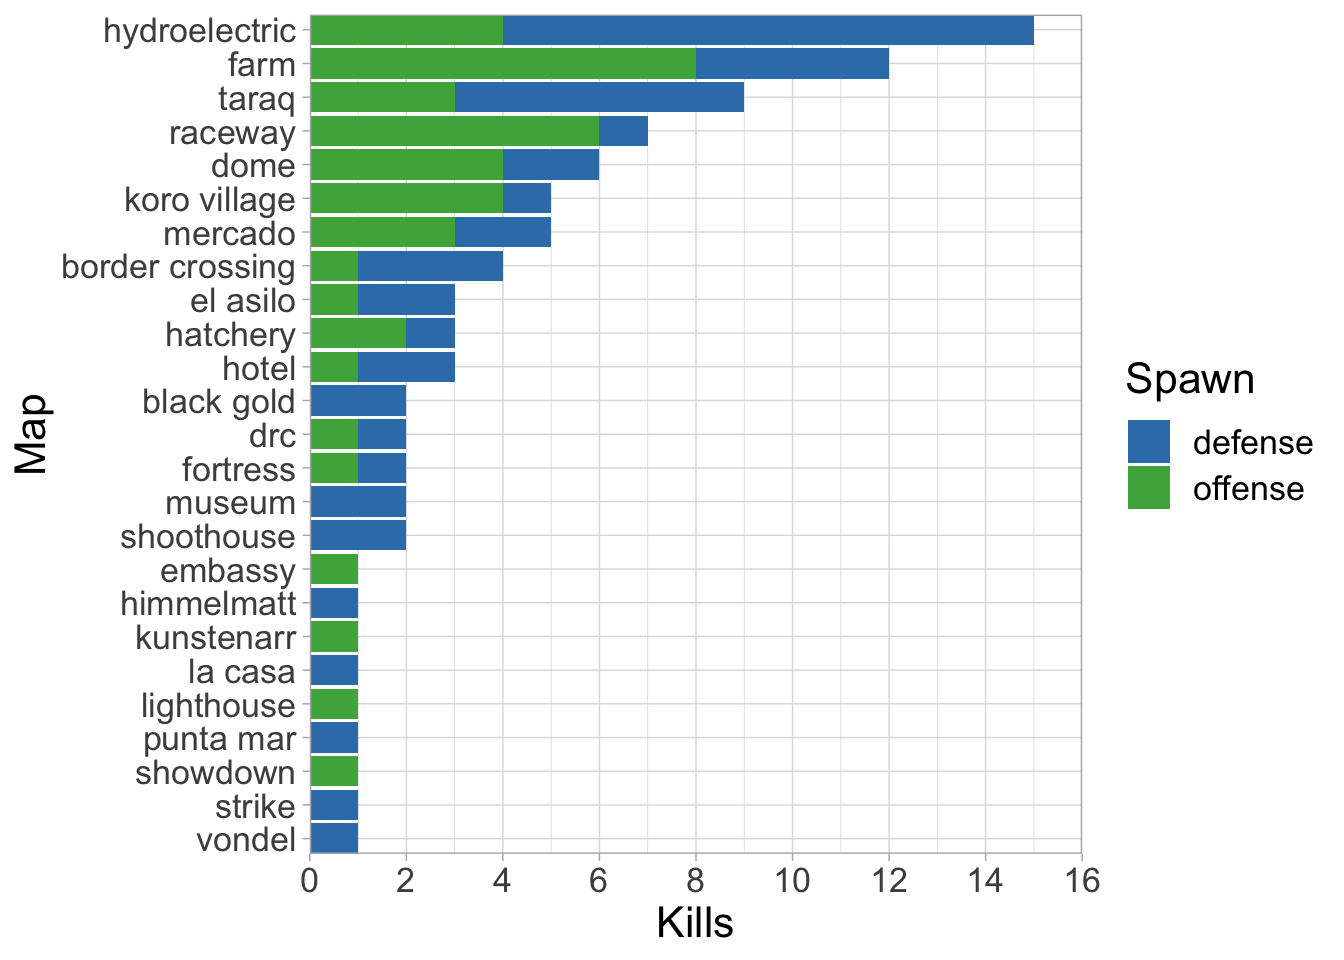
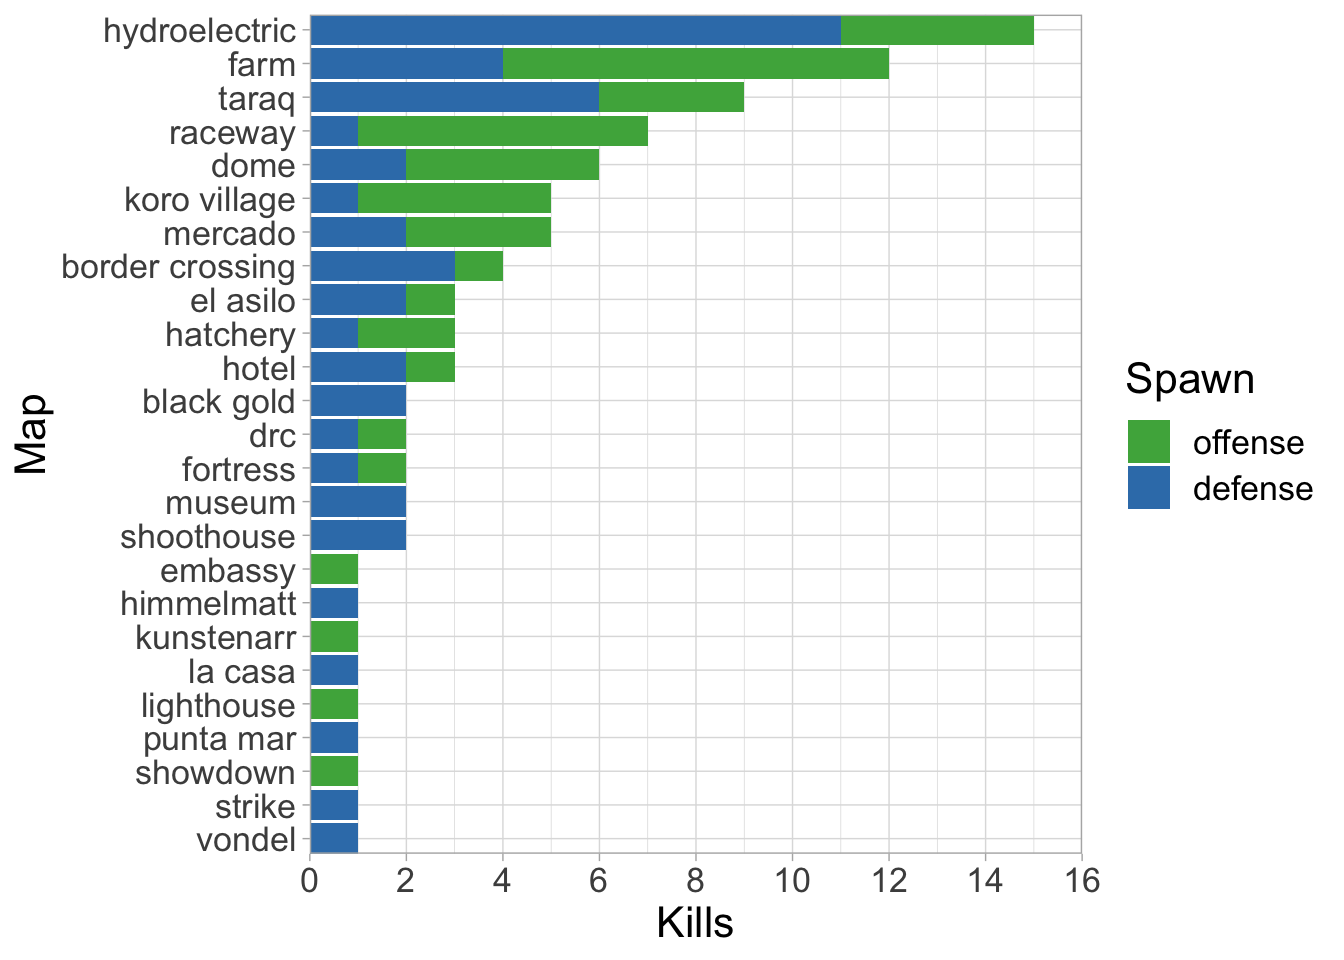
upd - finalized plots, readme.

Changed region(s): [[0.2188, 0.0, 0.7812, 0.4062], [0.8125, 0.4375, 0.9688, 0.5312], [0.2188, 0.4375, 0.3125, 0.5]]

diff --git a/docs/MWII_analysis.html b/docs/MWII_analysis.html
@@ -62,66 +62,120 @@ ul.task-list li input[type="checkbox"] {
 
 <section id="background" class="level2">
 <h2 class="anchored" data-anchor-id="background">Background</h2>
-<p>During Modern Warfare II, I spent the majority of my time in Search and Destroy attempting to hit cross-map throwing knives. After I hit Embassy, the last 6v6 map I needed, I moved to Modern Warfare III and finished with a total of 91 cross-maps after omitting Shipment. Here is the data and some intriguing analysis for those of you who are interested. I’ve also made a public github repository for this dataset if anyone wants to use it in the future.</p>
+<p>During Modern Warfare II, I spent the majority of my time in Search and Destroy attempting to hit cross-map throwing knives. After I hit Embassy, the last 6v6 map I needed, I had amassed 91 cross-maps in total. After omitting Shipment, I tried to pull out a few interesting details to share with the community. This dataset will also be available on GitHub if anyone wants to use it in the future.</p>
 </section>
 <section id="analysis" class="level2">
 <h2 class="anchored" data-anchor-id="analysis">Analysis</h2>
 <p>I had a general sense of which maps I hit the most and which ones proved difficult as I progressed, but getting a bird’s eye view of the data illuminates several interesting details (Figure 1). For instance, more than half the maps (n = 14) were only hit once or twice. I’ve attributed this to several factors:</p>
 <ol type="1">
-<li><p>map difficulty — both spawns on several maps (e.g., Strike, Museum) are incredibly challenging and require creativity and lots of luck.</p></li>
-<li><p>completionist — after going dry for many months on some of these maps, I just took a single kill and moved on.</p></li>
-<li><p>seasonal releases — some maps (e.g., La Casa) are released much later and naturally get less reps than the base maps. This can also synergise with #1, #2, or both (e.g., Himmelmatt).</p></li>
+<li><p>Map difficulty — both spawns on several maps (e.g., Strike, Museum) are incredibly challenging and require creativity and lots of luck.</p></li>
+<li><p>Completionist — after going dry for many months on some of these maps, I just took a single kill and moved on.</p></li>
+<li><p>Seasonal releases — some maps (e.g., La Casa) are released much later and naturally get less reps than the base maps. This can also compound with #1, #2, or both (e.g., Himmelmatt).</p></li>
 </ol>
 <div class="cell" data-layout-align="center">
 
 </div>
-<div class="cell fig-cap-location-bottom" data-layout-align="center">
+<div class="cell caption-bottom" data-layout-align="center">
 <div class="cell-output-display">
 <div class="quarto-figure quarto-figure-center">
 <figure class="figure">
 <p><img src="MWII_analysis_files/figure-html/unnamed-chunk-2-1.png" class="img-fluid figure-img" width="672"></p>
-<p></p><figcaption class="figure-caption">Figure 1. Cross-map throwing knife kills in MWII Search and Destroy from Nov.&nbsp;2022 to Nov.&nbsp;2023.</figcaption><p></p>
+<p></p><figcaption class="figure-caption">Figure 1. Cross-map throwing knife kills in MWII Search and Destroy.</figcaption><p></p>
 </figure>
 </div>
 </div>
 </div>
-<p>Another interesting observation was that 54% of the kills (i.e., 49/91) came from the top five maps - Hydroelectric, Farm, Taraq, Raceway, and Dome. Thinking back to the aforementioned factors, it is clear that Farm and Dome are relatively low difficulty maps, since throwing knives are viable from both spawns, distances are small, and strong arm can be used to shoot gaps at low angles giving enemies less time to react. The other three maps are more intriguing, largely because there may be a tendency to favour one spawn over the other (Figure 1). Let’s begin examining why it might be easier to hit cross-maps from the defensive side of Taraq and Hydroelectric, and the offensive side of Raceway.</p>
+<p>Another interesting observation was that five maps — Hydroelectric, Farm, Taraq, Raceway, and Dome — were responsible for 54% of my kills. Thinking back to the aforementioned factors, it is clear that Farm and Dome have relatively low degrees of difficulty as: 1) throwing knives are viable from both spawns; 2) distances are short; and 3) strong arm can be used to shoot gaps at low angles giving enemies less time to react. Conversely, the other three maps are more intriguing, largely because there may be a tendency to favour one spawn over the other (Figure 1). Let’s begin examining why it might be easier to hit cross-maps from the offense side of Raceway, and the defensive side of Taraq and Hydroelectric.</p>
 </section>
 <section id="case-studies" class="level2">
 <h2 class="anchored" data-anchor-id="case-studies">Case studies</h2>
 <section id="crown-raceway-the-most-obvious-example" class="level5">
 <h5 class="anchored" data-anchor-id="crown-raceway-the-most-obvious-example">1. Crown Raceway — the most obvious example</h5>
-<p>Crown Raceway has a relatively large discrepancy in spawn safety, with offense holding the distinct advantage. The tall, central building naturally protects players until they want to run up the stairs to mid-street — the most logical area for defensive spawn cross-maps (Figure X). I only hit one here, which I’d consider unlucky since it’s a relatively high traffic area; however, the small kill zone, having to clear the concrete vegetation barrier, and underutilisation of the upper platform (which knives tend to bounce up on) by players still make this challenging. Note that hitting AFK players directly at spawn is also possible, but I’d argue it requires more luck.</p>
-<p>On first glance, the offensive spawn looks quite safe; however, upon further inspection, I believe it is actually one of the more dangerous spawns in the game. The bomb entices players to run middle, which has a long runway and no barriers. This combined with a relatively consistent sprint-throw — that almost always clears the back end of the building — is a recipe for disaster. A wide kill zone, which reduces the need for precision and timing, bounce opportunities going through spawn, and players cross-cutting the knife path leaves everyone exposed, even those who are AFK.</p>
-<p>Winner: Offense.</p>
+<p>Crown Raceway has a relatively large discrepancy in spawn safety, with defense holding the distinct advantage. The left side of the tall, central building naturally protects players until they want to run up the stairs to mid-street — the most logical area for hitting cross-maps from offense (Figure 2). I hit several here which I’d consider fairly lucky. It is a relatively high traffic area; however, the variability in the throw combined with having to clear the concrete barrier, hitting a narrow kill zone, and underutilisation of the upper platform (which knives tend to bounce up on) make this more challenging than it looks. Note that hitting AFK players directly at spawn is also possible, but I’d argue it requires more luck.</p>
+<div class="quarto-figure quarto-figure-center">
+<figure class="figure">
+<p><img src="images/raceway1-01.png" class="img-fluid figure-img"></p>
+<p></p><figcaption class="figure-caption">Figure 2. An overview of the defense spawn and the route players must take to be vulnerable to this particular cross-map.</figcaption><p></p>
+</figure>
+</div>
+<div class="quarto-figure quarto-figure-center">
+<figure class="figure">
+<p><img src="images/raceway2-02.png" class="img-fluid figure-img"></p>
+<p></p><figcaption class="figure-caption">Figure 3. The kill zone and knife path for the cross-map from the offense spawn.</figcaption><p></p>
+</figure>
+</div>
+<p>Let’s take a look at the other side. At first glance, the offense spawn looks quite safe; however, upon further inspection, I believe it is actually one of the more dangerous spawns in the game. The bomb entices players to run middle, which has a long runway and no barriers (Figure 4). This combined with a relatively consistent sprint-throw from the other side — that almost always clears the back end of the central building — is a recipe for disaster. A wide kill zone, which reduces the need for precision and timing, bouncing, and players running near-parallel to the knife path leaves everyone exposed, even those who are AFK.</p>
+<p><strong>Conclusion:</strong> my data suggests that the offense cross-map is easier; however, I’d argue that defense has the better setup.</p>
+<div class="quarto-figure quarto-figure-center">
+<figure class="figure">
+<p><img src="images/raceway3-01.png" class="img-fluid figure-img"></p>
+<p></p><figcaption class="figure-caption">Figure 4. An overview of the cross-map thrown from the defense spawn.</figcaption><p></p>
+</figure>
+</div>
 </section>
 <section id="taraq-an-interesting-case-of-design" class="level5">
 <h5 class="anchored" data-anchor-id="taraq-an-interesting-case-of-design">2. Taraq — an interesting case of design</h5>
-<p>Taraq being in my top five maps was somewhat surprising to me given it’s large size and asymmetric layout. Let’s start with the offensive throws because Infinity Ward does us no favours here. The large blue building in front of the defensive spawn forces players left towards B, which is more open, or right through a small corridor towards A. Unfortunately, the strategic position of the large central tower makes hitting the B route a near-impossible task. That leaves us with trying to perfect the A throw — a sprint-jump toss that has to a) get over the balcony; and b) miss the pillar on a near-perpendicular angle to the enemy which makes the timing simply exquisite. Given these factors, I’d chalk the three I hit from this spawn mostly up to luck and are easily some of my most satisfying kills.</p>
-<p>Although the defensive throw is pretty blind (due to big blue), the offensive spawn is more forgiving and does us a subtle, but key favour. The characters tend to spawn in looking more left (towards A), which perhaps leads to more A rushes (it may also have no effect). Regardless, the offensive path to A is really the only viable option — lucky us. It is pretty open and the perpendicular runway offers lots of lead time if you can avoid the retaining wall and the corner building on the right. AFK players are also in play and a consistent point and release throw with ordnance gloves makes this easier than expected.</p>
-<p>Winner: Defense.</p>
+<p>Taraq being in my top five maps was somewhat surprising given its large size and asymmetric layout. Let’s start with the throws from offense because Infinity Ward did not give us any favours here. The large blue building in front of the defensive spawn forces players left towards B, which is more open, or right through a small corridor towards A. Unfortunately, the strategic position of the large central tower makes hitting the B route a near-impossible task (one I never attempted). That leaves trying to perfect the A throw — a sprint-jump toss into a vague grey sky that has to a) get over the balcony; or b) be left of the balcony and miss the pillar, which makes the aim and timing absolutely crucial (Figure 6). Given these factors, I’d chalk the three I hit from this spawn mostly up to luck. They are easily some of my favourite kills since so much has to go right (where is theatre mode when you need it).</p>
+<div class="quarto-figure quarto-figure-center">
+<figure class="figure">
+<p><img src="images/taraq1.png" class="img-fluid figure-img"></p>
+<p></p><figcaption class="figure-caption">Figure 5. The central tower and blue platform and adjoined retaining wall protect players exiting spawn towards B.</figcaption><p></p>
+</figure>
+</div>
+<div class="quarto-figure quarto-figure-center">
+<figure class="figure">
+<p><img src="images/taraq2-01.png" class="img-fluid figure-img"></p>
+<p></p><figcaption class="figure-caption">Figure 6. The A corridor and the window a throwing knife needs to go through to be successful. Note that aiming towards the exit (i.e., further left) is also viable.</figcaption><p></p>
+</figure>
+</div>
+<p>Although the defensive throw is pretty blind (due to blue), the offense spawn is more forgiving and does us a subtle, but key favour. The characters tend to spawn in looking more left (towards A), which perhaps leads to more A rushes; it may also have no effect on player decision-making (Figure 7). Regardless, the offense path to A is really the only viable cross-map option (as the B rush is well guarded) — lucky us. Left of spawn is pretty open and the perpendicular runway offers lots of lead time if you can avoid the retaining wall and the corner building on the right (Figure 8). AFK players are also in play and a consistent point and release throw with strong arm makes this easier than expected.</p>
+<p><strong>Conclusion:</strong> I’ll take my chances with the defensive throw over a rare — albeit sublime — offense kill everytime.</p>
+<div class="quarto-figure quarto-figure-center">
+<figure class="figure">
+<p><img src="images/taraq3-01.png" class="img-fluid figure-img"></p>
+<p></p><figcaption class="figure-caption">Figure 7. View of a typical player spawn and the large kill zone on offense.</figcaption><p></p>
+</figure>
+</div>
+<div class="quarto-figure quarto-figure-center">
+<figure class="figure">
+<p><img src="images/taraq3.png" class="img-fluid figure-img"></p>
+<p></p><figcaption class="figure-caption">Figure 8. Opposite viewpoint of the offense spawn that better illustrates the wide throwing angle. How little cover there is available for players if they choose to run towards A bomb is also evident.</figcaption><p></p>
+</figure>
+</div>
 </section>
 <section id="zarqwa-hydroelectric-the-most-dangerous-spawn-in-the-game" class="level5">
 <h5 class="anchored" data-anchor-id="zarqwa-hydroelectric-the-most-dangerous-spawn-in-the-game">3. Zarqwa Hydroelectric — the most dangerous spawn in the game?</h5>
-<p>Zarqwa Hydroelectric is simply a cross-mapping paradise; however, there are some key factors as to why kills on offense (n = 4) seem to be harder to come by than its counterpart (n = 11). Looking at the offensive knife kill zone, the long runway to mid is relatively good from a cross-map perspective, but the players are protected by the generator building and actually sit at a slightly lower elevation due to the carved out path on the right. Knives have to cross the map, clear the building, and get down fast, thus it’s likely that many players are safe by that time (if they tac-sprint at the start of the round). Furthermore, the electric power poles situated on the left side of generator roof and the rock and single power pole in the middle of the lane act as natural barriers which likely saved many lives over time!</p>
-<p>Conversely, tossing knives from the defense spawn is the best kind of dream. Point and release ordnance gloves throw, check. Long, straight runway with no barriers and bounce opportunities, check. Perfect bomb placement that entices players to funnel down the middle lane, check. Nothing more really needs to be said as I started to expect to hit one from this side every game. It is the poster child of what to look for when cross-mapping and, although this is a small sample size, it might be the most dangerous Search and Destroy spawn in the game.</p>
-<p>Winner: Defense.</p>
+<p>Zarqwa Hydroelectric is simply a cross-mapping paradise; however, there are some key factors as to why kills on offense seem to be harder to come by than its counterpart. Looking at the offense knife kill zone, the long runway to mid is relatively good from a cross-map perspective, but the players are protected by the generator building and its electric towers and are actually at a slightly lower elevation due to the carved out path on the right. Moreover, situated right in front of this path are various liquid containers and a power pole, which may play a sneaky role in reducing success rate. I figure a few lives were saved due to their presence (i.e., deflections). Ultimately, knives have to cross the map, clear the building, and get down fast which allows many players to be safe by that time (if they tac-sprint at the start of the round).</p>
+<div class="quarto-figure quarto-figure-center">
+<figure class="figure">
+<p><img src="images/hydroelectric2.png" class="img-fluid figure-img"></p>
+<p></p><figcaption class="figure-caption">Figure X. The area of interest for the cross-map thrown from offense.</figcaption><p></p>
+</figure>
+</div>
+<p>Conversely, tossing knives from the defense spawn is a dream setup. Player spawns in the kill zone? Check. Point and release strong arm throw? Check. Long, straight runway with no barriers and bounce opportunities? Check. Perfect bomb placement that entices players to funnel down the middle lane? Check. Thus, I started expecting to hit one from this side every game as it is a textbook example of what to look for when cross-mapping. Although this is a small sample size, offense on Zarqwa Hydroelectric may very well be the most dangerous Search and Destroy spawn in the game.</p>
+<p><strong>Conclusion:</strong> Defense everytime.</p>
+<div class="quarto-figure quarto-figure-center">
+<figure class="figure">
+<p><img src="images/hydroelectric1.png" class="img-fluid figure-img"></p>
+<p></p><figcaption class="figure-caption">Figure X. The nightmare scenario for players spawning and running middle on offense.</figcaption><p></p>
+</figure>
+</div>
 </section>
 </section>
 <section id="annual-data" class="level2">
 <h2 class="anchored" data-anchor-id="annual-data">Annual data</h2>
-<p>Lastly, I thought it was interesting to look at the temporal aspect of the data (i.e., when did these kills happen over the course of the year?). Looking at Figure X, it’s pretty evident that these occurred in three distinct time frames:</p>
+<p>Lastly, I thought it was interesting to look at the temporal aspect of the data (i.e., when did these kills happen over the course of the year?). Looking at Figure 11, it’s pretty evident that these occurred in three distinct time frames:</p>
 <ol type="1">
 <li><p>Release — excited to play the new game and learn new maps, etc.</p></li>
 <li><p>March to April 2023 — likely returned to check out the new season and was clearly consumed with knocking out cross-maps.</p></li>
 <li><p>Around the release of the next Call of Duty — had to grind out the remaining maps before I moved on to the next game.</p></li>
 </ol>
-<div class="cell">
+<div class="cell caption-bottom" data-layout-align="center">
 <div class="cell-output-display">
 <div class="quarto-figure quarto-figure-center">
 <figure class="figure">
 <p><img src="MWII_analysis_files/figure-html/unnamed-chunk-3-1.png" class="img-fluid figure-img" width="672"></p>
-<p></p><figcaption class="figure-caption">Figure X. Daily cross-map kills during the Modern Warfare II game cycle. Start of years are indicated by vertical blue lines.</figcaption><p></p>
+<p></p><figcaption class="figure-caption">Figure 11. Daily cross-map kills during the Modern Warfare II game cycle. Start of years are indicated by blue dotted lines.</figcaption><p></p>
 </figure>
 </div>
 </div>

diff --git a/README.md b/README.md
@@ -7,14 +7,11 @@ This data was collected during the annual life cycle (i.e., Oct. 2022 - Nov. 202
 - The side the throw was made on (i.e., offense or defense)
 - The in-game name of the player who was hit
 
-The data is in the 'tidy' format (refer to https://vita.had.co.nz/papers/tidy-data.html) and consists of 86 observations and four variables:
+The data is in the 'tidy' format (refer to https://vita.had.co.nz/papers/tidy-data.html) and consists of 91 observations and four variables:
 - map
 - date
 - side
 - name
 
 ### 2. Analysis
-I wanted to do a basic exploraty analysis on the dataset and create various histograms to answer (and further discuss) the following questions:
-1. Which month of the year did the most hits occur and was this a function of playtime?
-2. Which map and side had the most hits? With fairly good map knowledge, speculate on why this might have this occurred?
-3. Reserved for further questions as analysis develops
+Check the scripts folder
